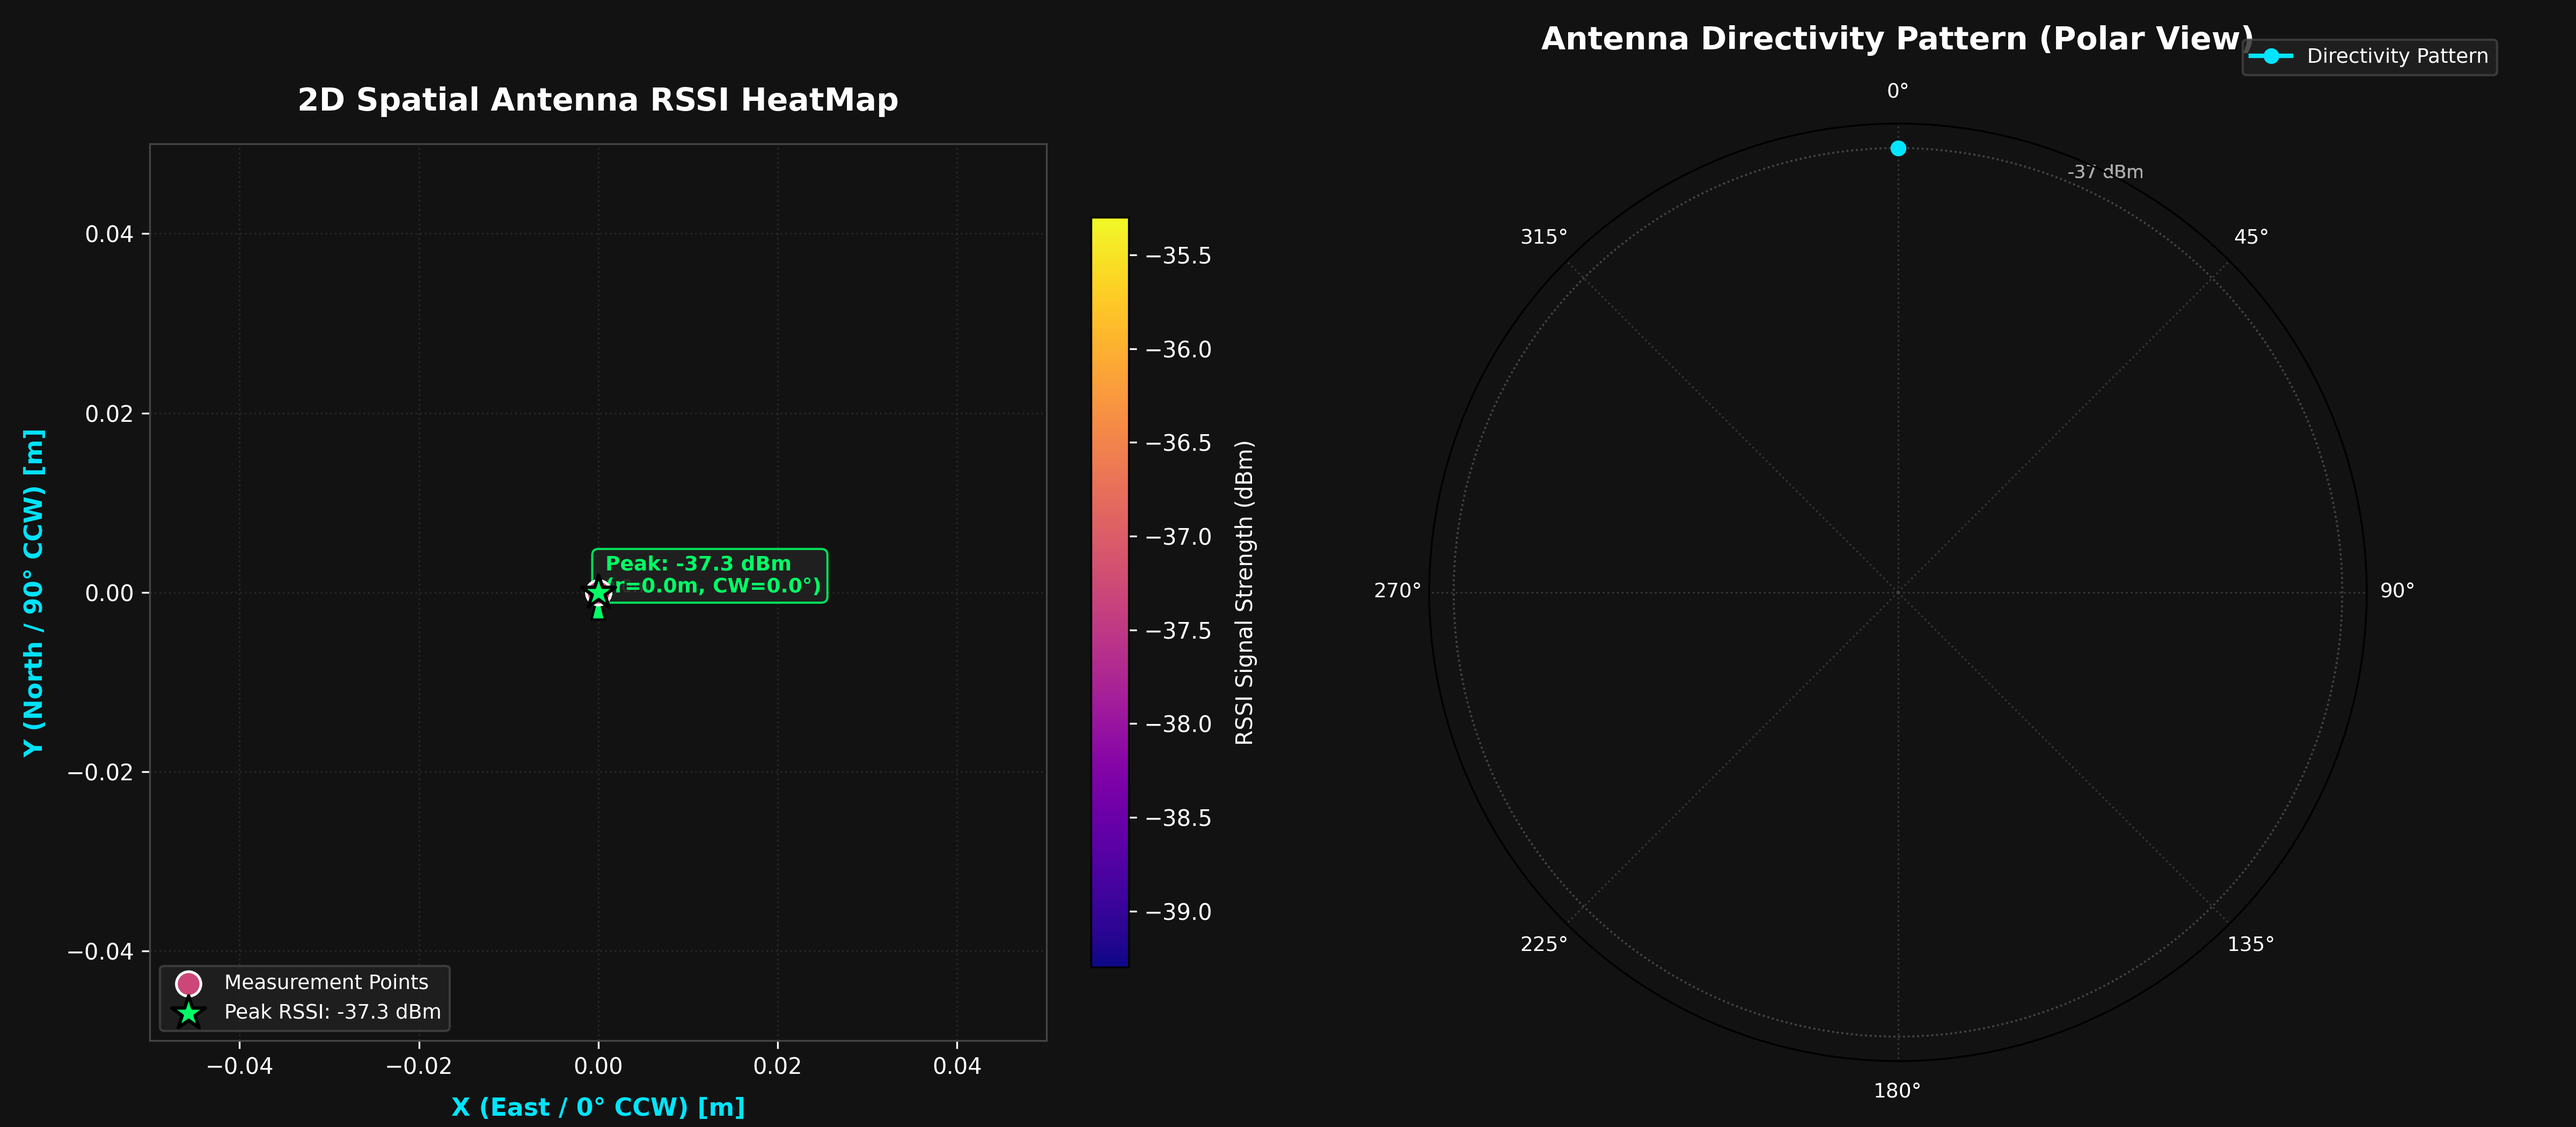
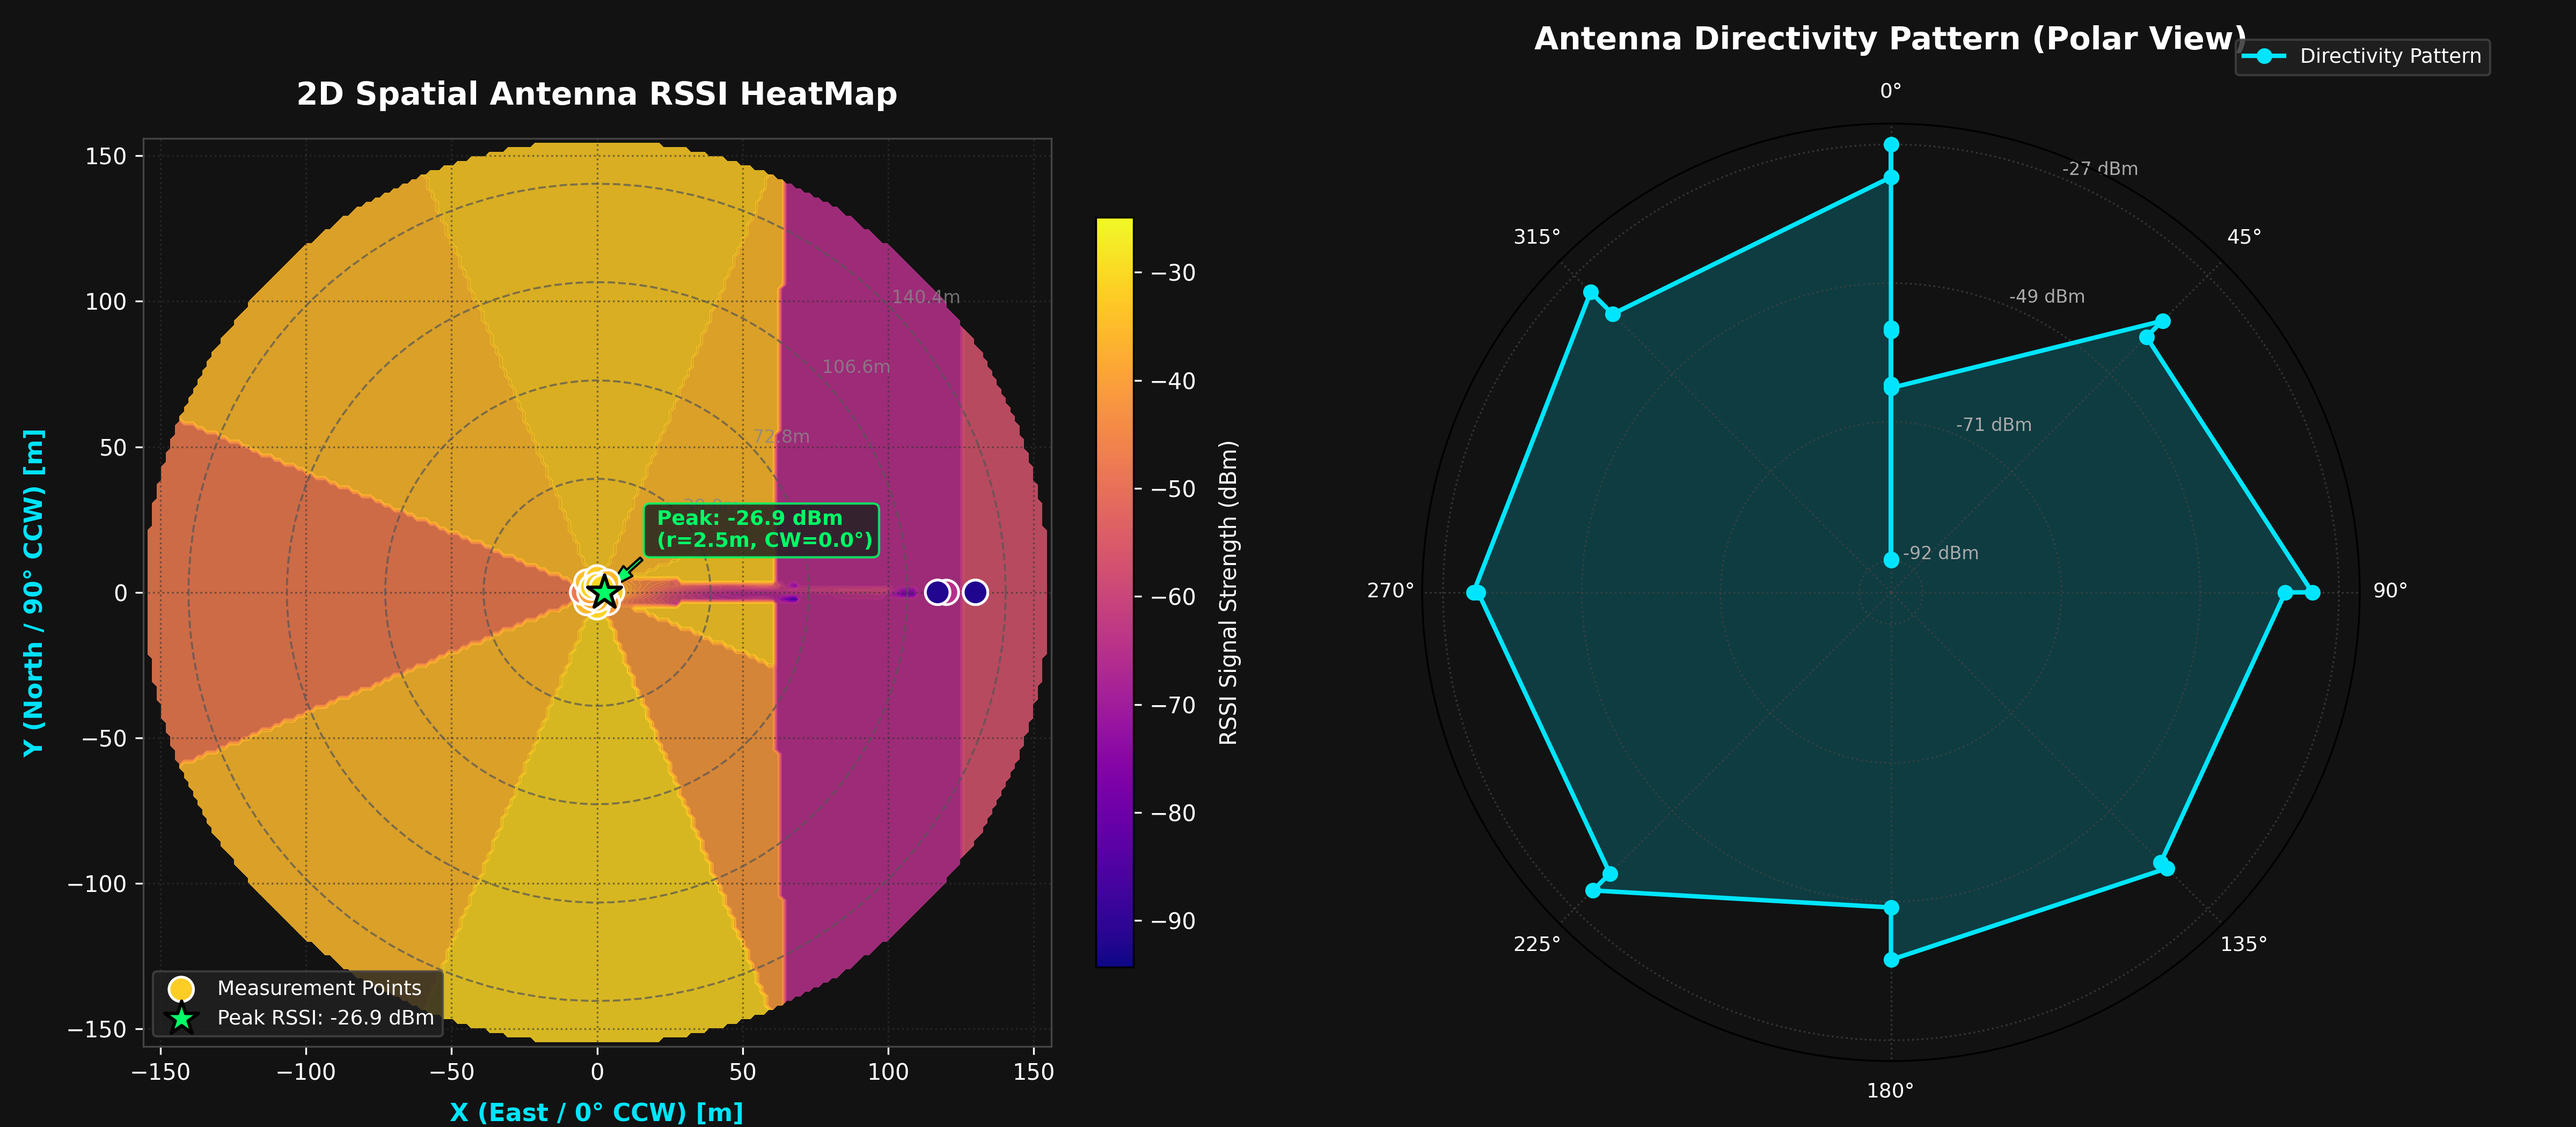
feat: add receiver RSSI rotation test script, heatmap assets, and CSV datasets

diff --git a/RS_test/rssi_rx_test.py b/RS_test/rssi_rx_test.py
@@ -6,13 +6,14 @@ Supports iPhone default GPS coordinates DMS format (e.g. 25°0'44" 121°32'27")
 as well as standard decimal coordinates (e.g. 25.0122, 121.5408 or X, Y).
 
 Workflow:
-1. Enter Receiver Coordinate (GPS DMS like 25°0'44" 121°32'27" or X, Y) and initial compass facing bearing (0-360°).
-2. Enter Transmitter Coordinate (GPS DMS like 25°0'45" 121°32'28" or X, Y).
-3. Script automatically calculates distance between RX and TX.
-4. Record RSSI for 30 seconds to compute average RSSI and throughput.
-5. Prompt user to turn receiver LEFT by 10° (using compass for alignment), then enter 'ready'.
-6. Repeat for a full 360° rotation (36 steps).
-7. Once 360° sweep is done, prompt for a NEW Transmitter Coordinate.
+1. Choose whether to CREATE a new CSV dataset or EDIT/APPEND to an existing CSV file.
+2. Enter Receiver Coordinate (GPS DMS like 25°0'44" 121°32'27" or X, Y) and initial compass facing bearing (0-360°).
+3. Enter Transmitter Coordinate (GPS DMS like 25°0'45" 121°32'28" or X, Y).
+4. Script automatically calculates distance between RX and TX.
+5. Record RSSI for 5 seconds to compute average RSSI and throughput.
+6. Prompt user to turn receiver LEFT by 30° (using compass for alignment), then enter 'ready'.
+7. Repeat for a full 360° rotation (12 steps).
+8. Once 360° sweep is done, prompt for a NEW Transmitter Coordinate.
 """
 
 import argparse
@@ -34,9 +35,9 @@ except ImportError:
 
 DEFAULT_BAUD = 921600
 DEFAULT_CSV_PATH = "rssi_rotation_data.csv"
-DEFAULT_DURATION = 10.0  # 10 seconds average
-STEP_DEGREES = 10         # Turn 10 degrees left per step
-TOTAL_STEPS = 36          # 360 degrees / 10 degrees = 36 steps
+DEFAULT_DURATION = 5.0   # 5 seconds average
+STEP_DEGREES = 30        # Turn 30 degrees left per step
+TOTAL_STEPS = 12         # 360 degrees / 30 degrees = 12 steps
 
 
 def dms_to_dd(deg, min_val, sec_val, direction=None):
@@ -56,7 +57,6 @@ def parse_gps_coord(coord_str):
     coord_str = coord_str.strip()
     
     # Check DMS pattern matching degrees (°), minutes ('), seconds (")
-    # Matches formats like: 25°0'44", 25° 0' 44" N, 25°0'44.2"N
     dms_pattern = r"(\d+)\s*°\s*(\d+)\s*['’]\s*([\d.]+)\s*[\"”]?\s*([NSEWnsew])?"
     dms_matches = re.findall(dms_pattern, coord_str)
     
@@ -104,7 +104,7 @@ def find_serial_port():
     return ports[0].device
 
 
-def record_30s_sample(ser=None, duration=DEFAULT_DURATION, simulate=False, rx_bearing=0.0):
+def record_sample(ser=None, duration=DEFAULT_DURATION, simulate=False, rx_bearing=0.0):
     """
     Record RSSI frames and throughput over `duration` seconds.
     Returns: (avg_rssi, max_rssi, min_rssi, avg_kbps, sample_count)
@@ -195,7 +195,7 @@ def record_30s_sample(ser=None, duration=DEFAULT_DURATION, simulate=False, rx_be
 
 
 class CSVLogger:
-    """Handles logging measurement records to CSV."""
+    """Handles logging measurement records to CSV, with support for new creation or editing/appending."""
     CSV_HEADERS = [
         "timestamp",
         "rx_coord_raw",
@@ -214,15 +214,27 @@ class CSVLogger:
         "sample_count"
     ]
 
-    def __init__(self, filepath=DEFAULT_CSV_PATH):
+    def __init__(self, filepath=DEFAULT_CSV_PATH, overwrite=False):
         self.filepath = filepath
-        self._ensure_header()
+        self.overwrite = overwrite
+        self._initialize_file()
 
-    def _ensure_header(self):
-        if not os.path.exists(self.filepath):
+    def _initialize_file(self):
+        if self.overwrite or not os.path.exists(self.filepath):
             with open(self.filepath, "w", newline="", encoding="utf-8") as f:
                 writer = csv.writer(f)
                 writer.writerow(self.CSV_HEADERS)
+
+    def count_records(self):
+        if not os.path.exists(self.filepath):
+            return 0
+        try:
+            with open(self.filepath, "r", encoding="utf-8") as f:
+                reader = csv.reader(f)
+                rows = list(reader)
+                return max(len(rows) - 1, 0)
+        except Exception:
+            return 0
 
     def log(self, rx_raw, tx_raw, rx_lat, rx_lon, tx_lat, tx_lon, distance_m, rx_bearing, turn_accum, avg_rssi, max_rssi, min_rssi, avg_kbps, sample_count):
         timestamp = datetime.now().strftime("%Y-%m-%d %H:%M:%S")
@@ -257,12 +269,57 @@ def prompt_input(text):
     return val
 
 
+def select_csv_mode(default_filepath):
+    """
+    Prompt user to select dataset operation mode:
+      [1] Create a NEW CSV file (overwrite/reset)
+      [2] Edit / Append to existing CSV file
+    Returns: (filepath, overwrite_bool)
+    """
+    print("\nPlease select CSV Dataset Mode:")
+    print(f"  [1] Create a NEW dataset (reset CSV file)")
+    print(f"  [2] Edit / Append to existing CSV file ('{default_filepath}')")
+    print("  [ESC/q] Exit")
+
+    choice = prompt_input("\nEnter choice [1/2/esc]: ")
+    if choice is None:
+        print("Exiting.")
+        sys.exit(0)
+
+    if choice == "1":
+        file_input = prompt_input(f"Enter file path for NEW CSV dataset [Press Enter for '{default_filepath}']: ")
+        if file_input is None:
+            print("Exiting.")
+            sys.exit(0)
+        target_path = file_input if file_input else default_filepath
+        print(f"--> Creating NEW CSV dataset: {os.path.abspath(target_path)}")
+        return target_path, True
+
+    elif choice == "2":
+        file_input = prompt_input(f"Enter file path of existing CSV dataset [Press Enter for '{default_filepath}']: ")
+        if file_input is None:
+            print("Exiting.")
+            sys.exit(0)
+        target_path = file_input if file_input else default_filepath
+        
+        if os.path.exists(target_path):
+            existing_count = CSVLogger(target_path, overwrite=False).count_records()
+            print(f"--> Appending to existing CSV dataset: {os.path.abspath(target_path)} ({existing_count} records currently)")
+        else:
+            print(f"--> Target CSV file '{target_path}' does not exist yet. A new file will be created.")
+        return target_path, False
+
+    else:
+        print("Invalid choice. Defaulting to Append mode.")
+        return default_filepath, False
+
+
 def main():
     parser = argparse.ArgumentParser(description="Receiver 360° RSSI Rotation Test Script (iPhone GPS Supported)")
     parser.add_argument("--port", default=None, help="RX serial port (default: auto-detect)")
     parser.add_argument("--baud", type=int, default=DEFAULT_BAUD, help="Serial baud rate (default: 921600)")
     parser.add_argument("--csv", default=DEFAULT_CSV_PATH, help="CSV file path (default: rssi_rotation_data.csv)")
-    parser.add_argument("--duration", type=float, default=DEFAULT_DURATION, help="Sampling duration per step in seconds (default: 30)")
+    parser.add_argument("--duration", type=float, default=DEFAULT_DURATION, help="Sampling duration per step in seconds (default: 5.0)")
     parser.add_argument("--simulate", action="store_true", help="Run in simulation mode without serial hardware")
     args = parser.parse_args()
 
@@ -271,8 +328,9 @@ def main():
     print("       (Supports iPhone GPS format e.g. 25°0'44\" 121°32'27\")      ")
     print("=" * 72)
 
-    logger = CSVLogger(args.csv)
-    print(f"Logging data to: {os.path.abspath(args.csv)}\n")
+    # Prompt user for CSV mode (Create New vs Edit/Append)
+    csv_path, overwrite_flag = select_csv_mode(args.csv)
+    logger = CSVLogger(csv_path, overwrite=overwrite_flag)
 
     # Connect serial port or use simulation
     ser = None
@@ -281,7 +339,7 @@ def main():
     if not simulate_mode:
         port = args.port if args.port else find_serial_port()
         if not port:
-            print("Notice: No serial port found. Enable SIMULATION mode? (y/n)")
+            print("\nNotice: No serial port found. Enable SIMULATION mode? (y/n)")
             ans = input("> ").strip().lower()
             if ans in ["y", "yes"]:
                 simulate_mode = True
@@ -299,7 +357,7 @@ def main():
                 simulate_mode = True
 
     # Step 1: Input Receiver Coordinate & Initial Facing
-    print("--- [RECEIVER SETUP] ---")
+    print("\n--- [RECEIVER SETUP] ---")
     while True:
         rx_raw = prompt_input("Enter Receiver Coordinate (iPhone GPS e.g. 25°0'44\" 121°32'27\" or X,Y): ")
         if rx_raw is None:
@@ -348,19 +406,19 @@ def main():
                 print(f"  Notice: Coordinate treated as raw position ({err})")
 
             print(f"\n>> Transmitter placed at: '{tx_raw}'")
-            print(f">> Starting 360° Rotation Test (36 steps x 30s average)...")
+            print(f">> Starting 360° Rotation Test ({TOTAL_STEPS} steps x {STEP_DEGREES}° x {args.duration}s)...")
             print("-" * 72)
 
-            # Step 3: Inner 360° rotation loop (36 steps of 10°)
+            # Step 3: Inner 360° rotation loop (12 steps of 30°)
             current_facing = initial_facing
 
             for step in range(1, TOTAL_STEPS + 1):
                 turn_accum = (step - 1) * STEP_DEGREES
                 
                 print(f"\n>>> Step {step}/{TOTAL_STEPS} | Turned Accum: {turn_accum}° | Compass Bearing: {current_facing:.1f}°")
-                print(f"Starting 30-second RSSI recording for TX at {tx_raw}...")
+                print(f"Starting {args.duration:g}-second RSSI recording for TX at {tx_raw}...")
 
-                avg_rssi, max_rssi, min_rssi, avg_kbps, samples = record_30s_sample(
+                avg_rssi, max_rssi, min_rssi, avg_kbps, samples = record_sample(
                     ser=ser,
                     duration=args.duration,
                     simulate=simulate_mode,
@@ -368,7 +426,7 @@ def main():
                 )
 
                 if samples > 0 and avg_rssi is not None:
-                    print(f"[30s OK] Avg RSSI: {avg_rssi:.2f} dBm (Max: {max_rssi:.1f}, Min: {min_rssi:.1f}) | Throughput: {avg_kbps:.2f} kb/s | Samples: {samples}")
+                    print(f"[{args.duration:g}s OK] Avg RSSI: {avg_rssi:.2f} dBm (Max: {max_rssi:.1f}, Min: {min_rssi:.1f}) | Throughput: {avg_kbps:.2f} kb/s | Samples: {samples}")
                     logger.log(
                         rx_raw=rx_raw,
                         tx_raw=tx_raw,
@@ -388,11 +446,11 @@ def main():
                 else:
                     print("[!] Warning: Sampling failed or 0 frames received. Point skipped.")
 
-                # If not the last step, prompt user to turn left 10 degrees
+                # If not the last step, prompt user to turn left STEP_DEGREES
                 if step < TOTAL_STEPS:
                     next_facing = (current_facing - STEP_DEGREES) % 360.0
                     print("\n" + "-" * 50)
-                    print(f"  [ACTION REQUIRED] Turn receiver LEFT by 10°")
+                    print(f"  [ACTION REQUIRED] Turn receiver LEFT by {STEP_DEGREES}°")
                     print(f"  Current Bearing: {current_facing:.1f}°  -->  Target Bearing: {next_facing:.1f}°")
                     print("  Please use compass to align receiver to target bearing.")
                     print("-" * 50)
@@ -411,7 +469,7 @@ def main():
     finally:
         if ser:
             ser.close()
-        print(f"Data successfully saved to: {os.path.abspath(args.csv)}")
+        print(f"Data successfully saved to: {os.path.abspath(csv_path)}")
 
 
 if __name__ == "__main__":
